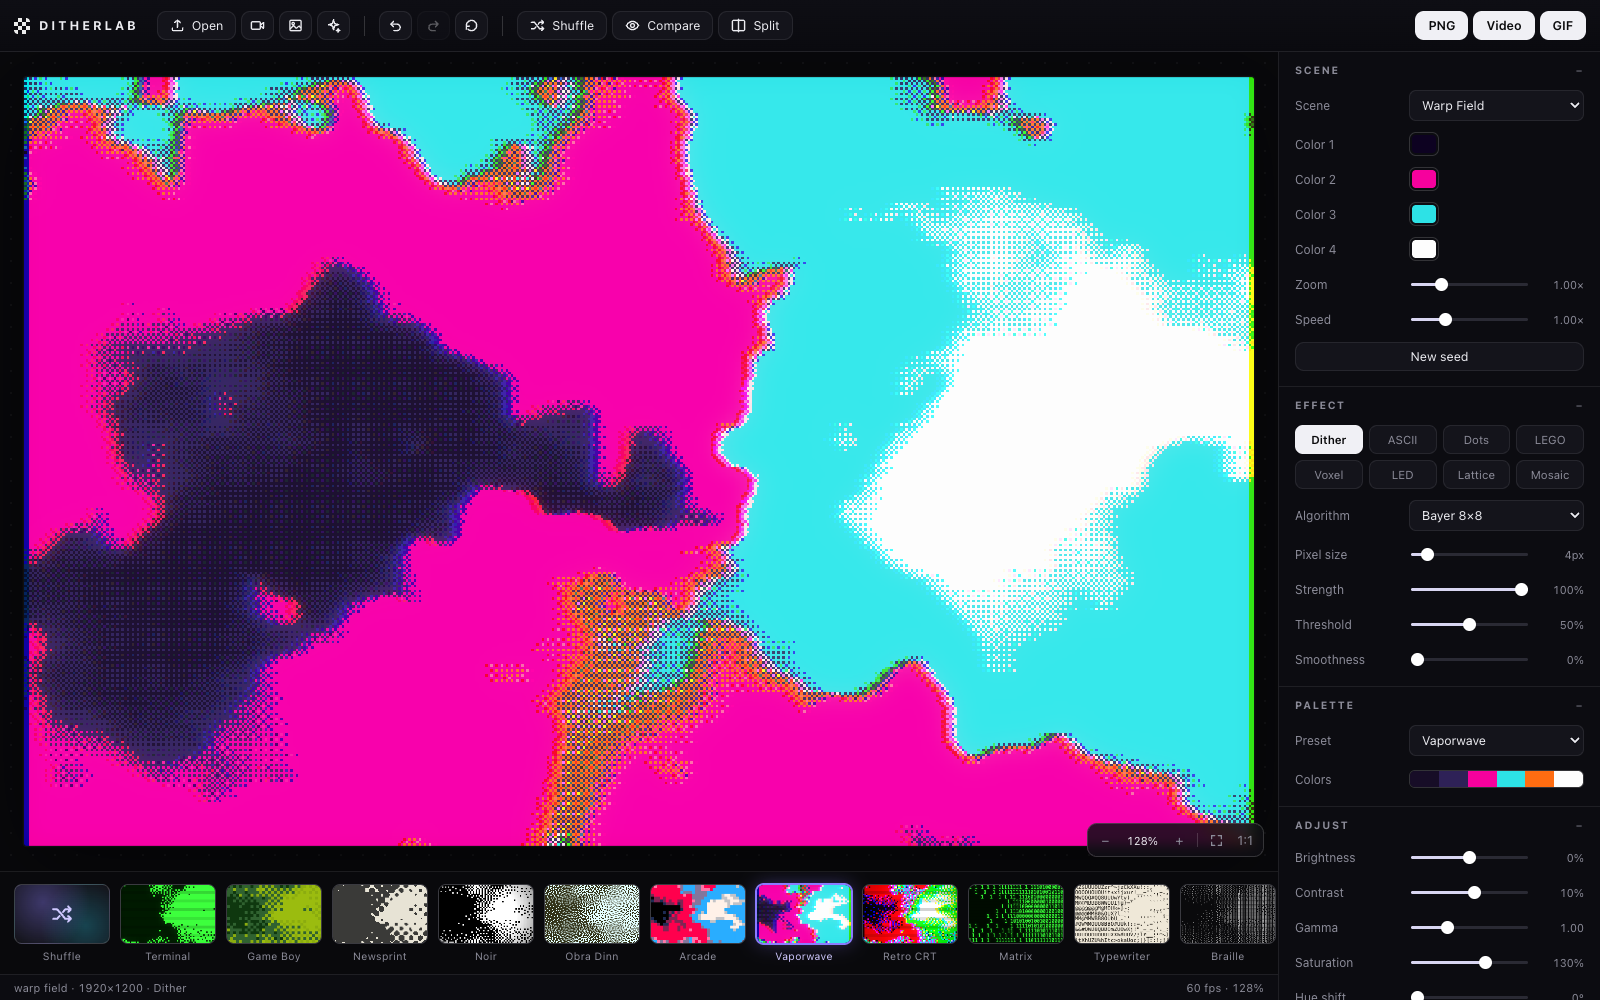
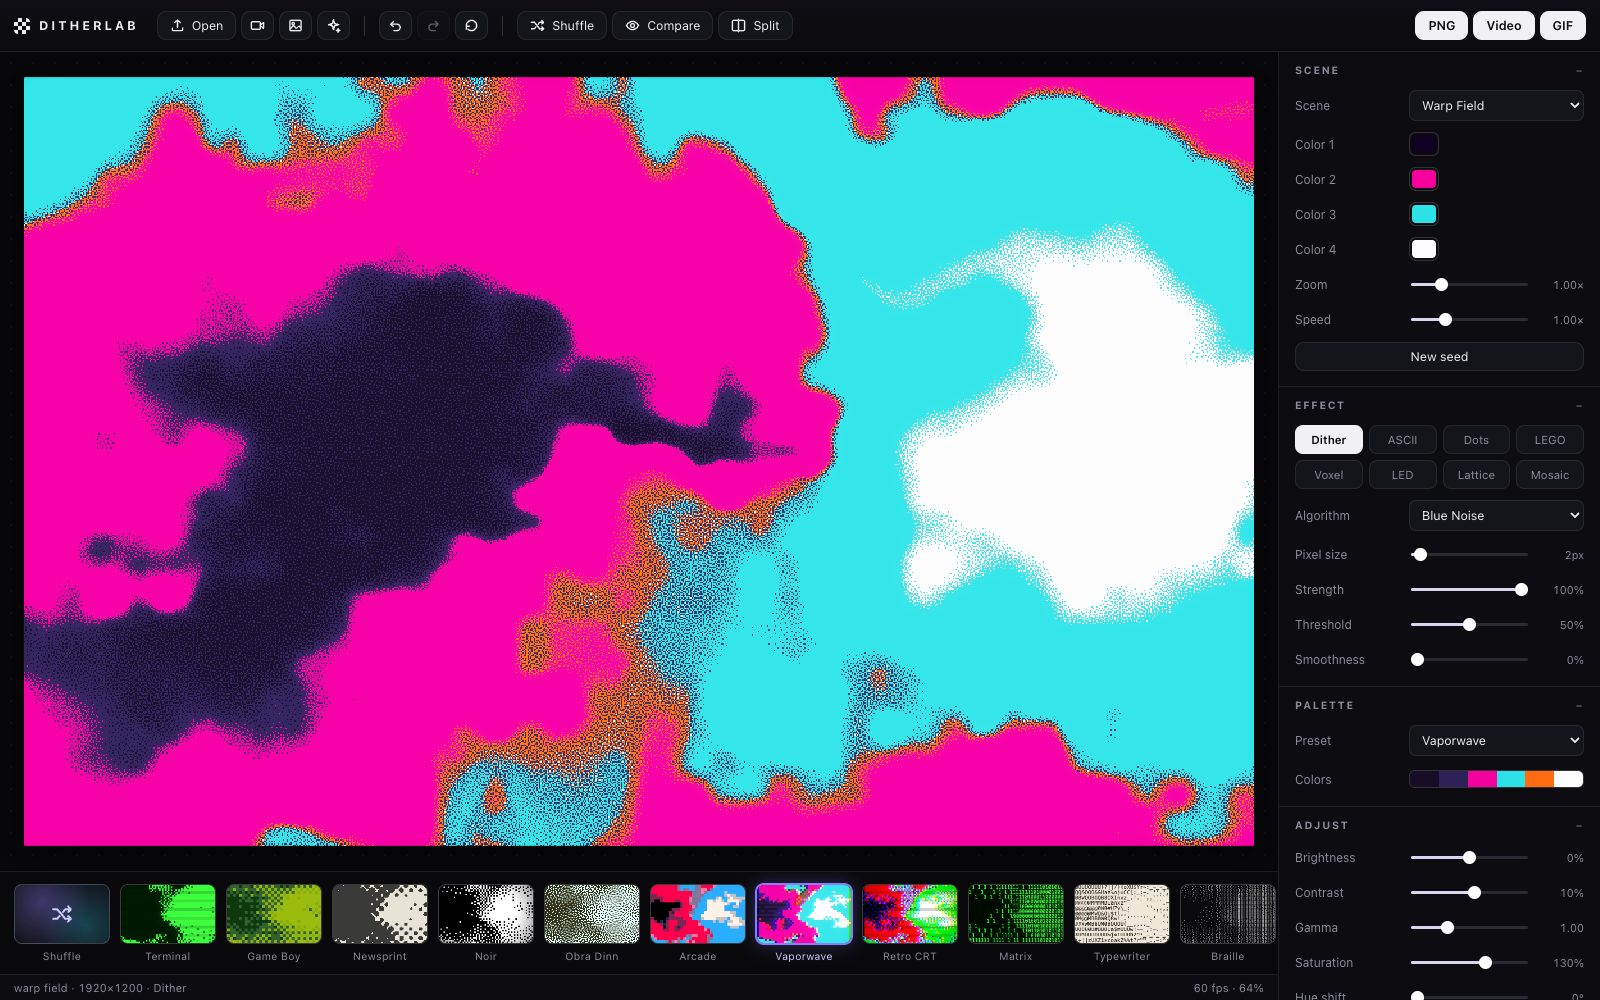
docs: fix boxy generative screenshot + add shader-scene GIF + document video quality
- The 'boxy' pattern in the old generate.png was not a bug (GPT-5.5 Pro review
  confirmed: identical on real M4 GPU and SwiftShader, no seams/precision/wrap
  artifacts) — it was Bayer 8x8 at pixelSize 4 + 128% zoom + chromatic on a
  smooth gradient reading as an accidental grid. Recaptured the Warp Field
  screenshot with Blue Noise (organic, no grid on smooth gradients), pixelSize
  2, no chromatic, at fit — reads as intentional. Bayer stays for the photo
  presets, where it looks deliberate.
- Add docs/shader.gif: an animated Smoke generative scene (blue-noise,
  Vaporwave palette), showcasing the shader scenes in motion.
- README prose updated for the video-quality work: Smoothness control
  (supersample->tone), the smooth-by-default video profile (Blue Noise default,
  Temporal EMA, Denoise, motion-adaptive strength, GPU ingest, sustained-load
  governor), and frame-accurate WebCodecs H.264 export with strict/smooth QP
  presets.

diff --git a/README.md b/README.md
@@ -58,7 +58,9 @@ The cell modes (Dots → Mosaic) share controls for cell size, coverage, scatter
 
 No source material? Hit **Generate** (the sparkle button): six animated procedural scenes — **Mesh Gradient, Neuro Noise, Warp Field, Smoke, Voronoi Flow, Metaballs** — render straight into the pipeline like a live video source, so every dither/ASCII mode, palette, and post effect applies in real time. Each scene has its own palette, zoom, speed and seed controls, and every scene is a pure function of a loop phase, so **GIF exports are perfectly seamless loops**. Clicking Generate again cycles scenes; `?gen=<scene>` boots straight into one.
 
-![Warp Field scene dithered with the Vaporwave preset](docs/generate.png)
+![Warp Field generative scene, blue-noise dithered in the Vaporwave palette](docs/generate.png)
+
+![Smoke scene animating — every generative scene bakes into a seamless GIF loop](docs/shader.gif)
 
 ## Dithering
 
@@ -69,6 +71,8 @@ No source material? Hit **Generate** (the sparkle button): six animated procedur
 **Halftone** (procedural shader): rotating dot screen and line screen with adjustable cell scale and screen angle.
 
 Plus white noise and plain nearest-color quantization. Pixel size (1–32) sets the working resolution; threshold biases light/dark; both CPU and GPU paths share identical adjustment math and the same perceptually-weighted nearest-palette quantizer, so switching algorithms never shifts colors.
+
+A **Smoothness** control (GPU dithers) supersamples the dither and box-averages it back down to tone: at 0 it stays crisp 1-bit dots, and higher settings anti-alias the grain into smooth, finer shading — like a halftone print seen from across the room. It's the same lever for "smoother" *and* "finer grain," and it's especially good on video.
 
 ![Before/after split view with the Noir preset](docs/split.png)
 
@@ -129,14 +133,23 @@ Speed and intensity are adjustable. Because animation is a pure function of a no
 
 ## Video & webcam
 
-The full pipeline runs per frame in real time: play/pause, scrubber, playback speed (0.25–2×), and a live fps readout. CPU-bound algorithms are capped at a working-resolution budget during playback so previews stay fluid. The webcam is a first-class source — every mode and export works on it.
+The full pipeline runs per frame in real time: play/pause, scrubber, playback speed (0.25–2×), and a live fps readout. `requestVideoFrameCallback` re-dithers only on genuinely new decoded frames, and CPU-bound algorithms are capped at a working-resolution budget during playback so previews stay fluid. The webcam is a first-class source — every mode and export works on it.
+
+Loading a video (or webcam) applies a **smooth-by-default profile** tuned for moving footage — all reversible from the sliders:
+
+- **Blue Noise** as the default dither. It's temporally stable under motion, where Bayer's regular grid crawls and per-frame error diffusion flickers.
+- **Temporal** — motion-gated exponential smoothing that calms frame-to-frame "boil" in near-static areas while leaving moving regions live, so it doesn't ghost or smear.
+- **Denoise** — a light pre-dither filter that stops video-compression noise from chattering the dither threshold in flat areas.
+- **Smoothness** (above) for anti-aliased, finer grain.
+
+GPU dithers cost about the same at any resolution, so video runs at near-native fineness. On modest, fanless hardware (a MacBook Air), a sustained-load governor eases the supersampling first — never the base resolution — if the frame budget slips, and the per-frame downsample is done on the GPU to keep the CPU cool. Dithering a moving frame also eases its strength where the image is actually moving, to further cut crawl.
 
 ## Exports
 
 | Format | Notes |
 | --- | --- |
 | **PNG** | pixel-exact, source resolution, or 2× — post FX included |
-| **Video** | WebM/MP4 via MediaRecorder; records the live preview in real time and carries the source's audio track (keep the tab visible while recording) |
+| **Video** | frame-accurate **H.264/MP4** via WebCodecs (High profile, constant-quality QP) — each frame is seeked and rendered with no time pressure, so a slow dither never judders the output, and it exports exactly what you tuned (temporal/denoise/smoothness included). Crisp 1-bit and smoothed output get their own QP/upscale presets so hard edges don't ring under H.264. Falls back to real-time MediaRecorder capture (with the source's audio) where WebCodecs is unavailable |
 | **GIF** | built-in GIF89a encoder: exact colors for palettized output, weighted median-cut global palette beyond 256 colors, drift-free frame timing; animated stills bake one seamless loop |
 | **TXT / ANS / HTML** | ASCII output as plain text, ANSI truecolor (`cat file.ans` in any modern terminal), or a self-contained web page — or copy straight to the clipboard |
 